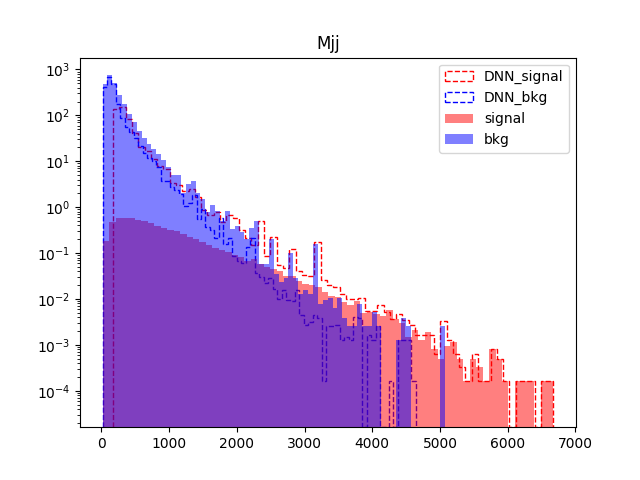
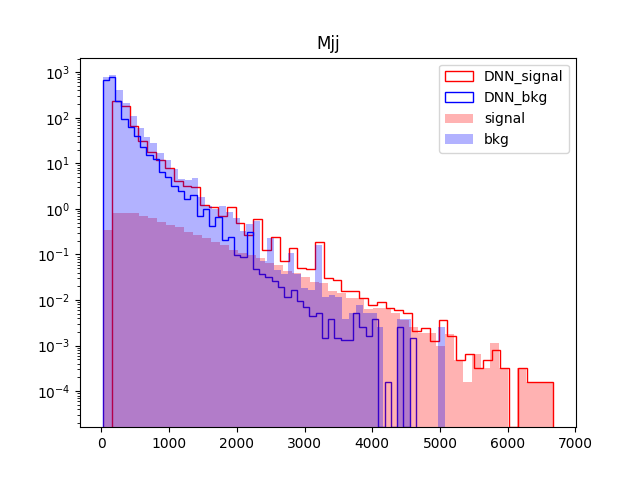
m

diff --git a/learning/ANN_with_3Features.py b/learning/ANN_with_3Features.py
@@ -263,7 +263,7 @@ _,FP = tf.metrics.false_positives(Y, predicted)
 _,FN = tf.metrics.false_negatives(Y, predicted)
 
 sess.run(tf.local_variables_initializer())
-acc_val,corr_val,issig_val = sess.run([accuracy,correct,issig],feed_dict={X: test_x_data, Y:test_y_data, keep_prob:1})
+prediction,acc_val,corr_val,issig_val = sess.run([hypothesis,accuracy,correct,issig],feed_dict={X: test_x_data, Y:test_y_data, keep_prob:1})
 
 ########### --ROC unit
 
@@ -271,6 +271,7 @@ tp=sess.run(TP, feed_dict={X: test_x_data, Y:test_y_data, keep_prob:1})
 tn=sess.run(TN, feed_dict={X: test_x_data, Y:test_y_data, keep_prob:1})
 fp=sess.run(FP, feed_dict={X: test_x_data, Y:test_y_data, keep_prob:1})
 fn=sess.run(FN, feed_dict={X: test_x_data, Y:test_y_data, keep_prob:1})
+
 
 corr_val=corr_val.flatten()
 not_corr_val=np.invert(corr_val)
@@ -307,6 +308,10 @@ hist_tn = test_x_data_origin[tn_bool]
 hist_fp = test_x_data_origin[fp_bool]
 hist_pre_sig = test_x_data_origin[pre_sig_bool]
 hist_pre_bkg = test_x_data_origin[pre_bkg_bool]
+
+hist_hypo_sig = prediction[issig_val]
+hist_hypo_bkg = prediction[isbkg_val]
+
 
 print("##### sig ####")
 print(hist_sig)
@@ -347,6 +352,19 @@ print(scale_sig.shape,hist_sig_obj.shape)
 print("##### BKG #####")
 print(scale_bkg.shape,hist_bkg_obj.shape)
 
+#### --Prediction distribution
+#n_bins=50
+#plt.hist(hist_hypo_sig,bins=n_bins,histtype="step",log=True,color='r',label='Signal')
+#plt.hist(hist_hypo_bkg,bins=n_bins,histtype="step",log=True,color='b',label='Background')
+#plt.legend(loc='upper right')
+#plt.title('Prediction')
+#axes=plt.gca()
+#axes.set_ylim([0,100000])
+#plt.savefig('Prediction.png')
+
+
+
+
 #### --Signa and Background
 #n_bins=50
 #plt.hist(hist_sig_obj,bins=n_bins,weights=scale_sig,histtype="step",log=True,alpha=0.7,color='r',label='Signal')
@@ -364,14 +382,14 @@ print(scale_bkg.shape,hist_bkg_obj.shape)
 #plt.savefig('Mjj_FULL_Predicted.png')
 
 #### --Predicted Signal and Predicted Background
-n_bins=70
-plt.hist(hist_pre_sig_obj,bins=n_bins,weights=scale_pre_sig,histtype="step",log=True,ls='--',color='r',label='DNN_signal')
-#plt.hist(hist_pre_bkg_obj,bins=n_bins,weights=scale_pre_bkg,histtype="step",log=True,ls='--',color='b',label='DNN_bkg')
-plt.hist(hist_sig_obj,bins=n_bins,weights=scale_sig,log=True,alpha=0.5,color='r',label='signal')
-#plt.hist(hist_bkg_obj,bins=n_bins,weights=scale_bkg,log=True,alpha=0.5,color='b',label='bkg')
+n_bins=50
+plt.hist(hist_pre_sig_obj,bins=n_bins,weights=scale_pre_sig,histtype="step",log=True,linewidth=1,alpha=1,color='r',label='DNN_signal')
+plt.hist(hist_pre_bkg_obj,bins=n_bins,weights=scale_pre_bkg,histtype="step",log=True,linewidth=1,alpha=1,color='b',label='DNN_bkg')
+plt.hist(hist_sig_obj,bins=n_bins,weights=scale_sig,log=True,alpha=0.3,color='r',label='signal')
+plt.hist(hist_bkg_obj,bins=n_bins,weights=scale_bkg,log=True,alpha=0.3,color='b',label='bkg')
 plt.legend(loc='upper right')
 plt.title('Mjj')
-plt.savefig('Mjj_FULL_Predicted_sig.png')
+plt.savefig('Mjj_FULL_ALL.png')
 
 
 #### --ROC values on MJJ
